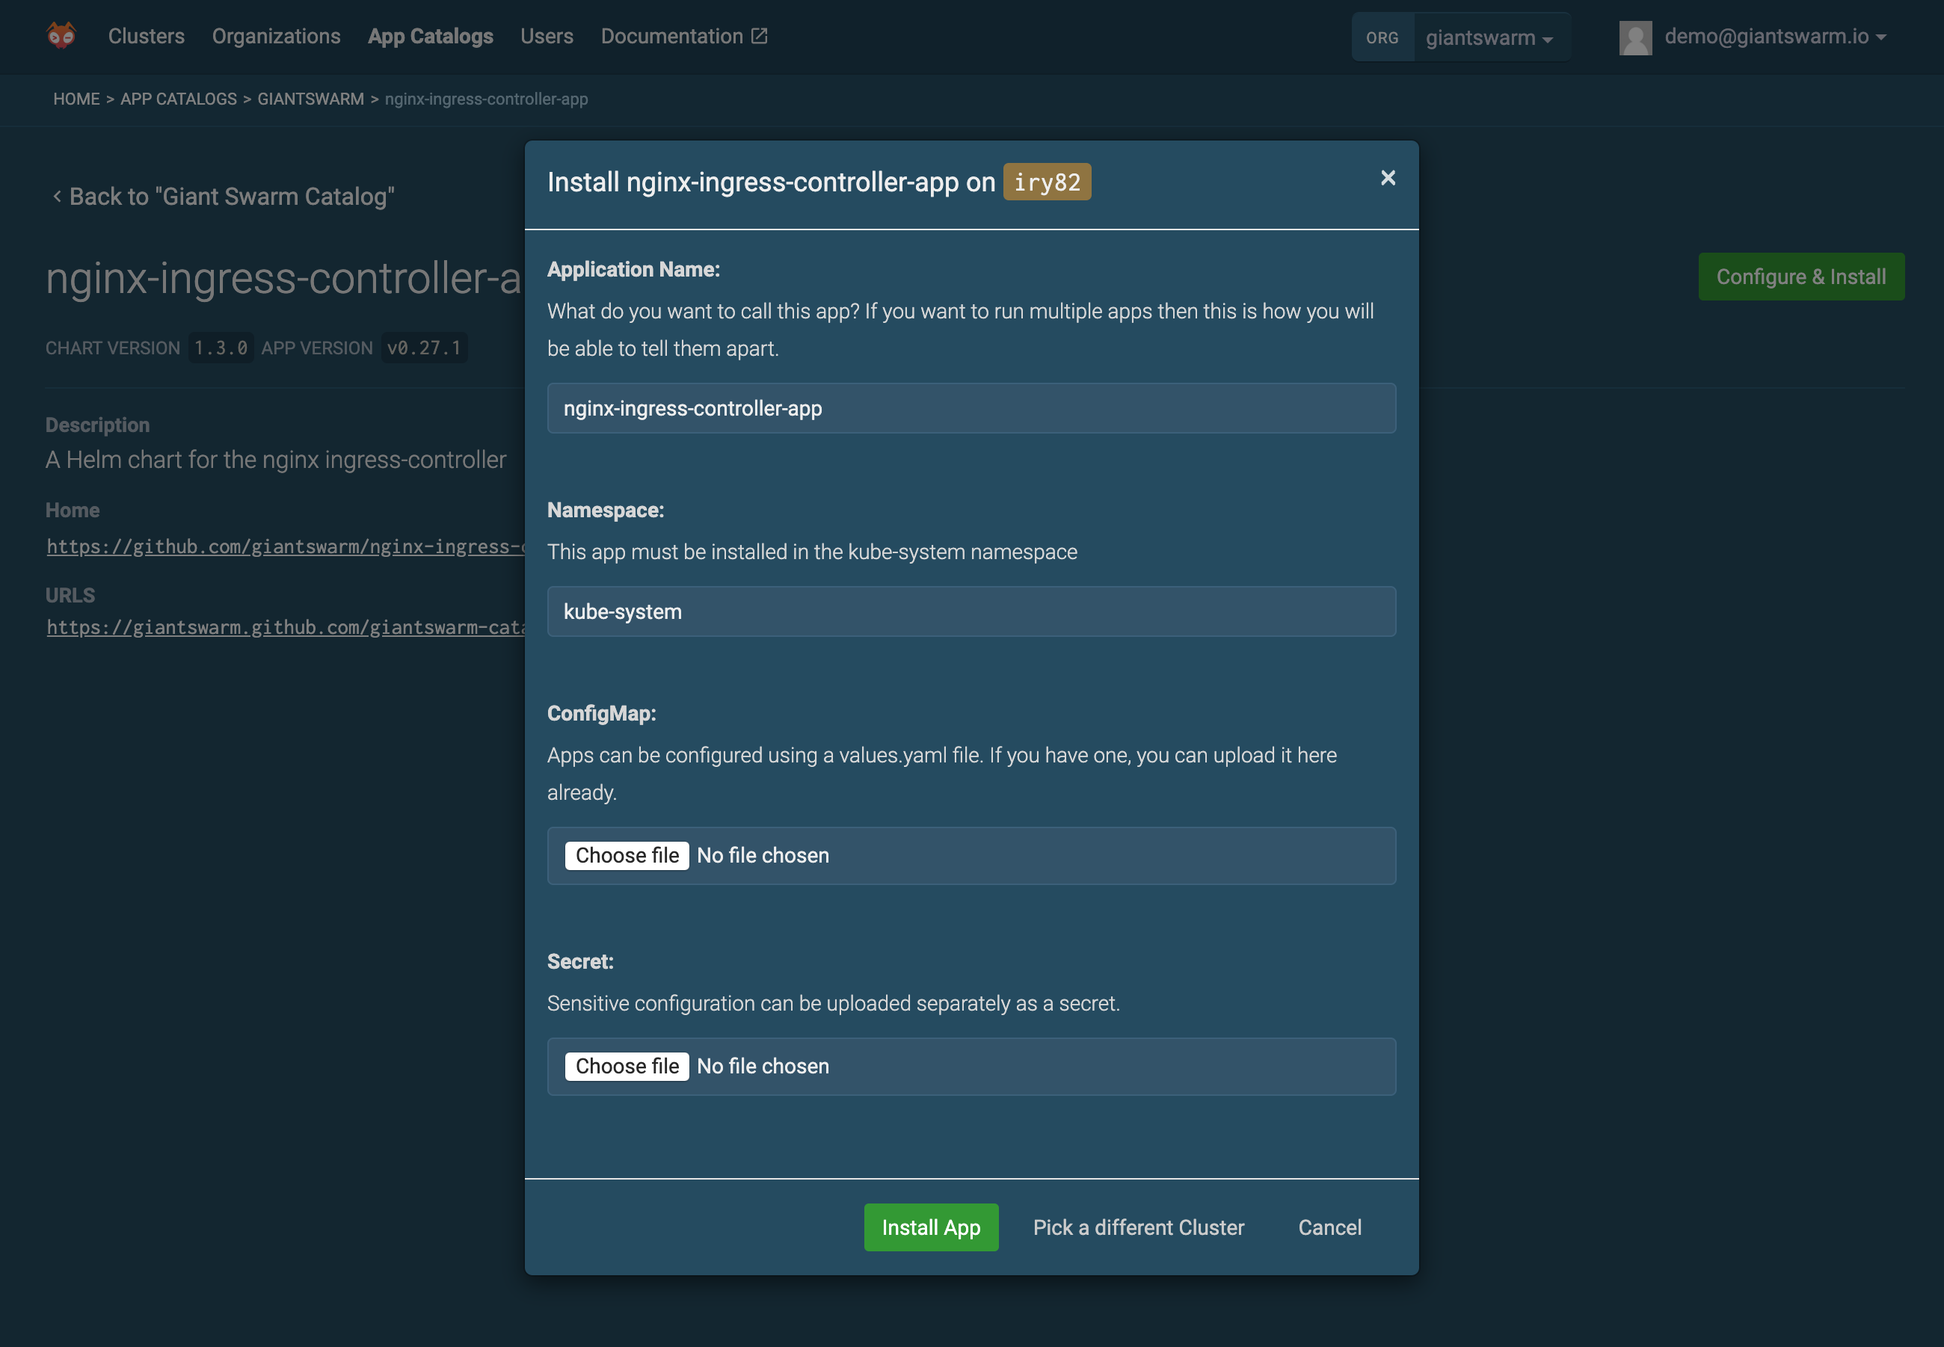
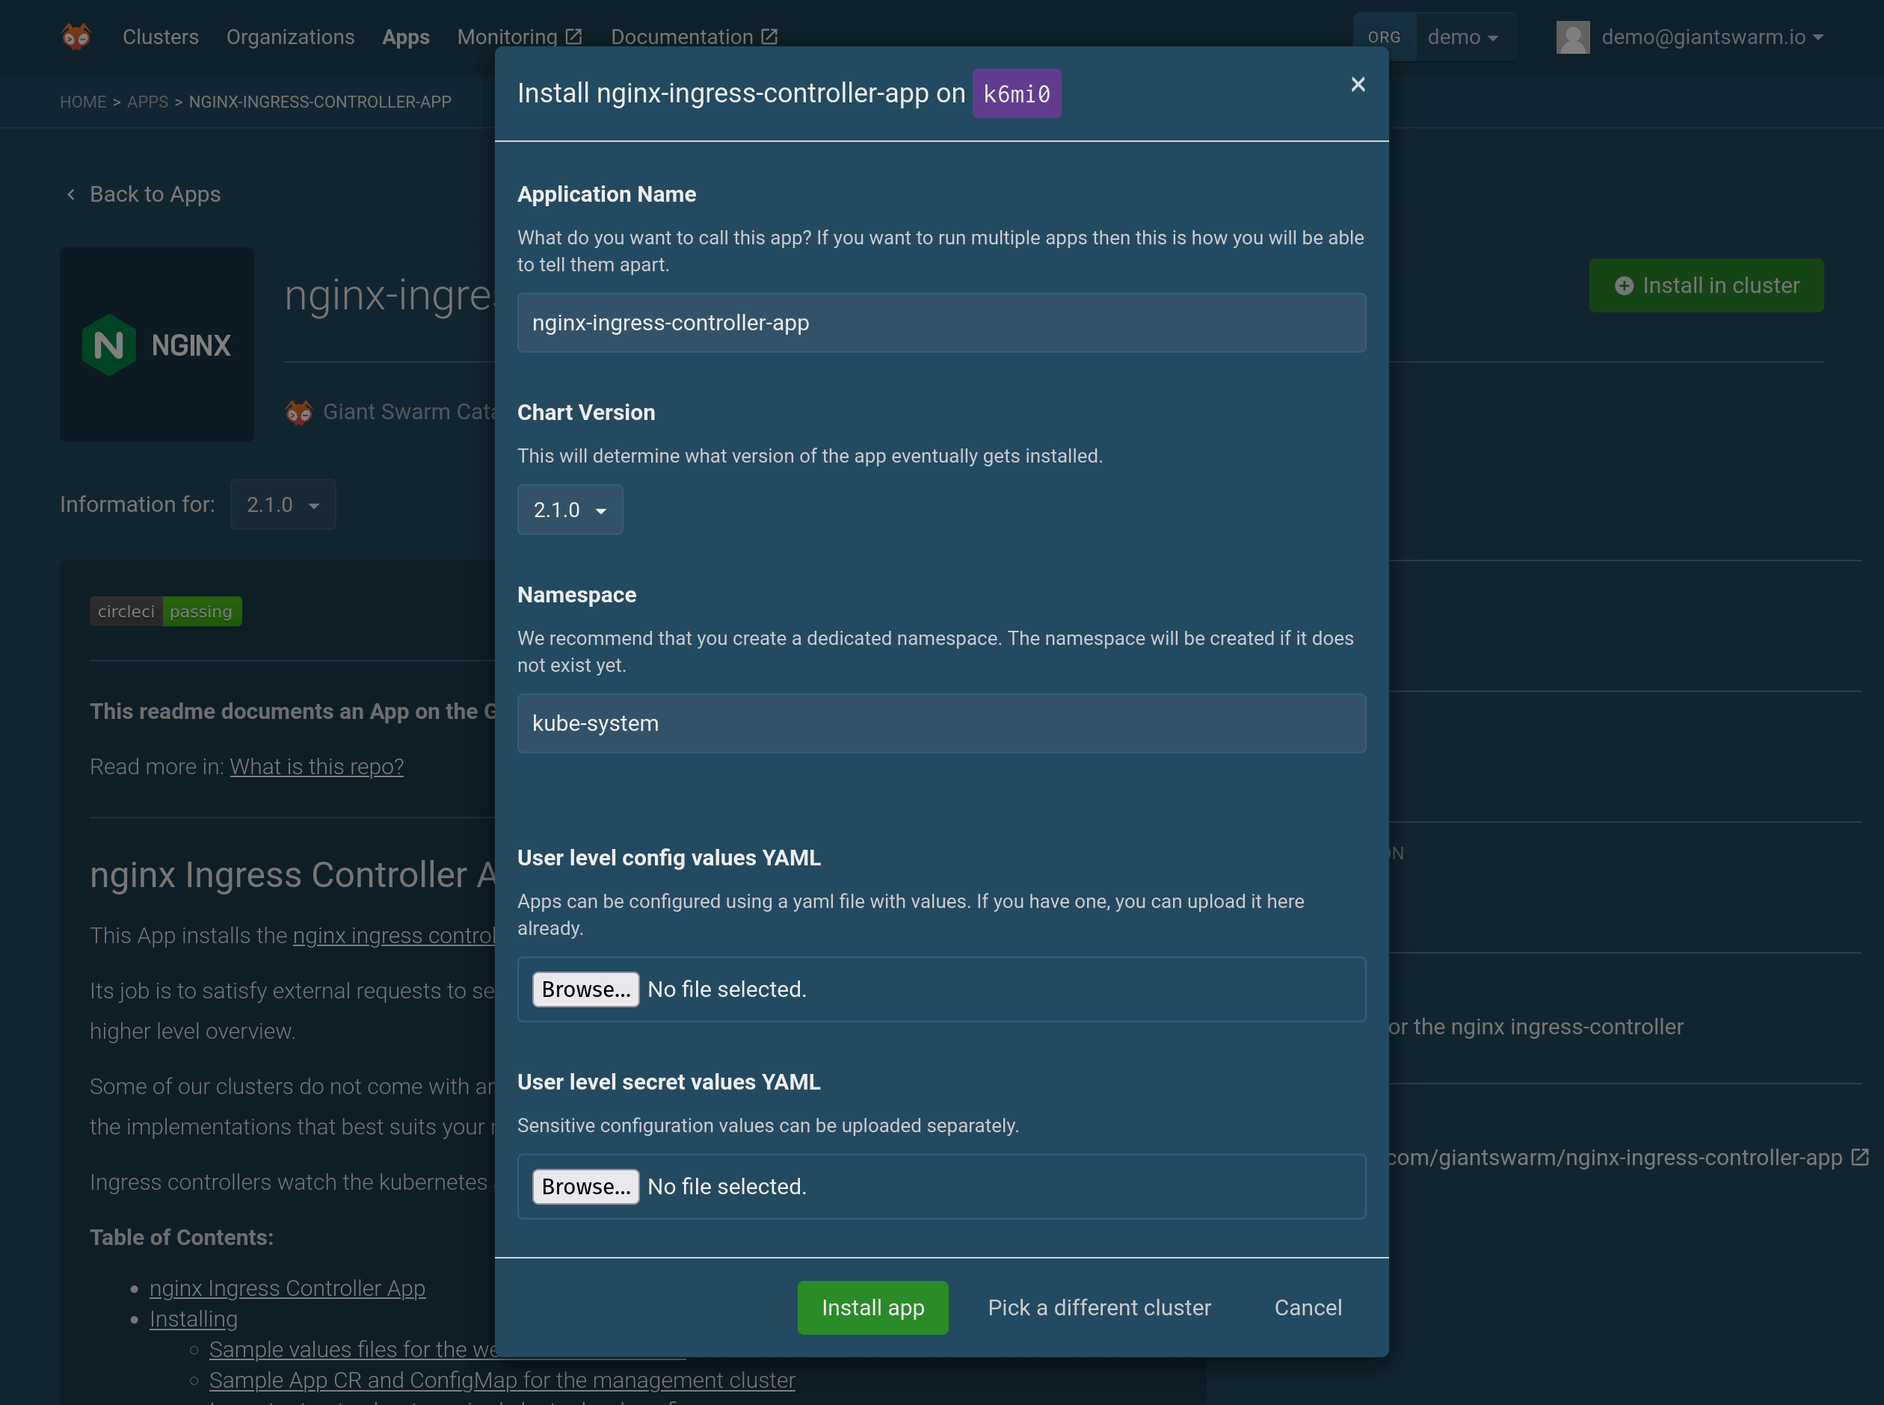
update ingress related docs

diff --git a/src/content/advanced/ingress/configuration/index.md b/src/content/advanced/ingress/configuration/index.md
@@ -33,10 +33,10 @@ owner:
 
 The [NGINX-based Ingress Controller](https://github.com/kubernetes/ingress-nginx) has additional configuration options and features that can be customized. The functionality is split into two categories:
 
-- [Per-Service options](#yaml) in each Ingress' YAML definition either directly or via [Annotations](https://kubernetes.io/docs/concepts/overview/working-with-objects/annotations/).
-- [Global options](#configmap) that influence all Ingresses of a cluster via a ConfigMap.
+- [Per-Service options](#yaml) in each Ingress' YAML definition either directly or via [Annotations](https://kubernetes.io/docs/concepts/overview/working-with-objects/annotations/) ([Complete list of supported Annotations](https://kubernetes.github.io/ingress-nginx/user-guide/nginx-configuration/annotations/)).
+- [Global options](#configmap) that influence all Ingresses of a cluster via a ConfigMap ([Complete list of ConfigMap options](https://kubernetes.github.io/ingress-nginx/user-guide/nginx-configuration/configmap/)).
 
-**Note**: Some Giant Swarm clusters do not come with an ingress controller pre-installed. See our [guide on how to install an ingress from the Giant Swarm Catalog]({{< relref "/getting-started/ingress-controller" >}}).
+**Note**: Giant Swarm clusters do not come with an ingress controller pre-installed. See our [guide on how to install an ingress from the Giant Swarm Catalog]({{< relref "/getting-started/ingress-controller" >}}).
 
 ## Per-Service options {#yaml}
 
@@ -45,26 +45,33 @@ The [NGINX-based Ingress Controller](https://github.com/kubernetes/ingress-nginx
 You can aggregate several Ingress rules into a single Ingress definition like following:
 
 ```yaml
-apiVersion: networking.k8s.io/v1beta1
+apiVersion: networking.k8s.io/v1
 kind: Ingress
 metadata:
   name: <ingress-name>
 spec:
+  ingressClassName: nginx
   rules:
   - host: <yourchoice1>.<cluster-id>.k8s.gigantic.io
     http:
       paths:
       - path: /
+        pathType: Prefix
         backend:
-          serviceName: <service1-name>
-          servicePort: <service1-port>
+          service:
+            name: <service1-name>
+            port:
+              number: <service1-port>
   - host: <yourchoice2>.<cluster-id>.k8s.gigantic.io
     http:
       paths:
       - path: /
+        pathType: Prefix
         backend:
-          serviceName: <service2-name>
-          servicePort: <service2-port>
+          service:
+            name: <service2-name>
+            port:
+              number: <service2-port>
 ```
 
 __Note:__ If you are using TLS you also need each of the hosts in the `tls` section (see below) of the yaml.
@@ -74,23 +81,30 @@ __Note:__ If you are using TLS you also need each of the hosts in the `tls` sect
 You can route an Ingress to different Services based on the path:
 
 ```yaml
-apiVersion: networking.k8s.io/v1beta1
+apiVersion: networking.k8s.io/v1
 kind: Ingress
 metadata:
   name: <ingress-name>
 spec:
+  ingressClassName: nginx
   rules:
   - host: <yourchoice>.<cluster-id>.k8s.gigantic.io
     http:
       paths:
       - path: /foo
+        pathType: Prefix
         backend:
-          serviceName: <service1-name>
-          servicePort: <service1-port>
+          service:
+            name: <service1-name>
+            port:
+              number: <service1-port>
       - path: /bar
+        pathType: Prefix
         backend:
-          serviceName: <service2-name>
-          servicePort: <service2-port>
+          service:
+            name: <service2-name>
+            port:
+              number: <service2-port>
 ```
 
 __Note:__ Your applications need to be capable of running on a non-root path either by default or by setting the base path in their configuration.
@@ -106,13 +120,14 @@ __Warning:__ This feature was disabled by default in Nginx ingress controller ma
 For SSL passthrough you need to set an annotation and enable TLS for the host:
 
 ```yaml
-apiVersion: networking.k8s.io/v1beta1
+apiVersion: networking.k8s.io/v1
 kind: Ingress
 metadata:
   name: <ingress-name>
   annotations:
     nginx.ingress.kubernetes.io/ssl-passthrough: "true"
 spec:
+  ingressClassName: nginx
    tls:
    - hosts:
      - <yourchoice>.<cluster-id>.k8s.gigantic.io
@@ -121,9 +136,12 @@ spec:
     http:
       paths:
       - path: /
+        pathType: Prefix
         backend:
-          serviceName: <service-name>
-          servicePort: <service-port>
+          service:
+            name: <service-name>
+            port:
+              number: <service-port>
 ```
 
 __Note:__ SSL passthrough cannot work with path based routing based on the nature of SSL.
@@ -148,11 +166,12 @@ __Note:__ the data keys must be named `tls.crt` and `tls.key`!
 Referencing this secret in an Ingress will tell the Ingress Controller to secure the channel from the client to the loadbalancer using TLS:
 
 ```yaml
-apiVersion: networking.k8s.io/v1beta1
+apiVersion: networking.k8s.io/v1
 kind: Ingress
 metadata:
   name: <ingress-name>
 spec:
+  ingressClassName: nginx
    tls:
    - hosts:
      - <yourchoice>.<cluster-id>.k8s.gigantic.io
@@ -162,12 +181,13 @@ spec:
     http:
       paths:
       - path: /
+        pathType: Prefix
         backend:
-          serviceName: <service-name>
-          servicePort: <service-port>
+          service:
+            name: <service-name>
+            port:
+              number: <service-port>
 ```
-
-__Warning:__ When enabling `TLS` with the NGINX Ingress Controller, some more configuration settings become important. Notably [`HSTS`](https://cheatsheetseries.owasp.org/cheatsheets/HTTP_Strict_Transport_Security_Cheat_Sheet.html) will be enabled [by default](https://kubernetes.github.io/ingress-nginx/user-guide/nginx-configuration/configmap/#hsts) with a duration of six month for your specified domain. Once a browser retrieved these `HSTS` instructions it will refuse to read any unencrypted resource from that domain and un-setting `HSTS` on your server will not have any affect on that browser for half a year. So you might want to disable this at first to avoid [unwanted surprises](https://github.com/kubernetes/ingress-nginx/issues/549#issuecomment-291894246). Please contact our support team to find out details on how to disable HSTS in your cluster.
 
 __Tip:__ If you want to use [Let’s Encrypt](https://letsencrypt.org/) certificates with your domains you can automate their creation and renewal with the help of [cert-manager](https://cert-manager.io/docs/). After configuring cert-manager there is only an annotation with your Ingresses needed and your web page will be secured by a valid `TLS` certificate.
 
@@ -210,7 +230,7 @@ data:
 Last, we create the Ingress with the according annotations:
 
 ```yaml
-apiVersion: networking.k8s.io/v1beta1
+apiVersion: networking.k8s.io/v1
 kind: Ingress
 metadata:
   name: <ingress-name>
@@ -222,14 +242,18 @@ metadata:
     # message to display with an appropiate context why the authentication is required
     nginx.ingress.kubernetes.io/auth-realm: "Authentication Required - foo"
 spec:
+  ingressClassName: nginx
   rules:
   - host: <yourchoice>.<cluster-id>.k8s.gigantic.io
     http:
       paths:
       - path: /
+        pathType: Prefix
         backend:
-          serviceName: <service-name>
-          servicePort: <service-port>
+          service:
+            name: <service-name>
+            port:
+              number: <service-port>
 ```
 
 ### External Authentication
@@ -249,21 +273,25 @@ In some scenarios the exposed URL in the backend service differs from the specif
 This can for example be used together with path based routing, when the application expects to be on `/`:
 
 ```yaml
-apiVersion: networking.k8s.io/v1beta1
+apiVersion: networking.k8s.io/v1
 kind: Ingress
 metadata:
   name: <ingress-name>
   annotations:
     nginx.ingress.kubernetes.io/rewrite-target: /
 spec:
+  ingressClassName: nginx
   rules:
   - host: <yourchoice>.<cluster-id>.k8s.gigantic.io
     http:
       paths:
       - path: /foo
+        pathType: Prefix
         backend:
-          serviceName: <service-name>
-          servicePort: <service1port>
+          service:
+            name: <service-name>
+            port:
+              number: <service-port>
 ```
 
 If the application contains relative links it is possible to add an additional annotation `ingress.kubernetes.io/add-base-url` that will prepend a [`base` tag](https://developer.mozilla.org/en-US/docs/Web/HTML/Element/base) in the header of the returned HTML from the backend.
@@ -288,7 +316,7 @@ By default the controller redirects (301) to `HTTPS` if TLS is enabled for that 
 
 ### Whitelist source range
 
-You can specify the allowed client IP source ranges through the `nginx.ingress.kubernetes.io/whitelist-source-range` annotation. The value is a comma separated list of [CIDRs](https://en.wikipedia.org/wiki/Classless_Inter-Domain_Routing), e.g.  `10.0.0.0/24,172.10.0.1`.
+You can specify the allowed client IP source ranges through the `nginx.ingress.kubernetes.io/whitelist-source-range` annotation. The value is a comma separated list of [CIDRs](https://en.wikipedia.org/wiki/Classless_Inter-Domain_Routing), e.g. `10.0.0.0/24,172.10.0.1`.
 
 __Note:__ Adding an annotation to an Ingress rule overrides any global restrictions set in the NGINX Ingress Controller.
 
@@ -325,7 +353,7 @@ The NGINX Ingress Controller creates an NGINX configuration file. You can direct
 Here is an example adding an `Expires` header to every response:
 
 ```yaml
-apiVersion: networking.k8s.io/v1beta1
+apiVersion: networking.k8s.io/v1
 kind: Ingress
 metadata:
   name: myingress
@@ -334,14 +362,18 @@ metadata:
     nginx.ingress.kubernetes.io/configuration-snippet: |
       expires 24h;
 spec:
+  ingressClassName: nginx
   rules:
   - host: host.example.com
     http:
       paths:
       - backend:
-          serviceName: http-svc
-          servicePort: 80
+          service:
+            name: http-svc
+            port:
+              number: 80
         path: /
+        pathType: Prefix
 ```
 
 Make sure to use the exact annotation scheme `nginx.ingress.kubernetes.io/configuration-snippet` in the `metadata` section of the manifest.
@@ -356,6 +388,8 @@ Your Giant Swarm installation comes with a default configuration for the Ingress
 
 You can override these defaults by setting your per cluster configuration in the form of a ConfigMap named `nginx-ingress-controller-user-values` in the management cluster.
 
+Page [App configuration reference]({{< relref "/app-platform/app-configuration/index.md" >}}) contains more information how to set user defined configuration for the nginx-ingress-controller-app.
+
 ### Where is the user values ConfigMap
 
 Given the cluster you are trying to configure has id: `123ab`
@@ -363,7 +397,7 @@ Given the cluster you are trying to configure has id: `123ab`
 You will find the `nginx-ingress-controller-user-values` ConfigMap on the management cluster in the `123ab` namespace:
 
 ```nohighlight
-$ kubectl -n 123ab get cm nginx-ingress-controller-user-values --context=control-plane
+$ kubectl -n 123ab get cm nginx-ingress-controller-user-values
 NAME                                   DATA      AGE
 nginx-ingress-controller-user-values   0         11m
 ```
@@ -408,7 +442,7 @@ spec:
       namespace: abc12
 ```
 
-Any defaults that we override are visible in the following `values.yaml` file, under the `configmap` key. [Check this values.yaml file in v1.16.1](https://github.com/giantswarm/nginx-ingress-controller-app/blob/v1.16.1/helm/nginx-ingress-controller-app/values.yaml) as an example.
+Any defaults that we override are visible in the following `values.yaml` file, under the `configmap` key. [Check this values.yaml file in v2.1.0](https://github.com/giantswarm/nginx-ingress-controller-app/blob/v2.1.0/helm/nginx-ingress-controller-app/values.yaml) as an example.
 
 Do not copy all the defaults if you do not need to change them, that way we can adjust them in case they need to change.
 

diff --git a/src/content/getting-started/exposing-workloads/index.md b/src/content/getting-started/exposing-workloads/index.md
@@ -16,7 +16,7 @@ aliases:
   - /guides/accessing-services-from-the-outside/
 owner:
   - https://github.com/orgs/giantswarm/teams/team-ludacris
-last_review_date: 2021-01-01
+last_review_date: 2021-09-01
 ---
 
 # Accessing pods and services from the outside
@@ -72,25 +72,31 @@ You can expose services publicly by setting up a simple ingress. You can do this
 Let's look at the following YAML, which you can use as a template for your ingress manifest:
 
 ```yaml
-apiVersion: networking.k8s.io/v1beta1
+apiVersion: networking.k8s.io/v1
 kind: Ingress
 metadata:
   name: INGRESS_NAME
   namespace: NAMESPACE
 spec:
+  ingressClassName: nginx
   rules:
   - host: PREFIX.CLUSTER_ID.k8s.gigantic.io
     http:
       paths:
       - path: /
+        pathType: Prefix
         backend:
           serviceName: SERVICE_NAME
           servicePort: SERVICE_PORT
+          service:
+            name: SERVICE_NAME
+            port:
+              number: SERVICE_PORT
 ```
 
 All parts in uppercase letters are placeholders, to be replaced according to your individual requirements. In detail:
 
-- `INGRESS_NAME`: This name identifies the ingress within your namespace. As with all other kubernetes, it's up to you how you name it.
+- `INGRESS_NAME`: This name identifies the ingress within your namespace. As with all other Kubernetes resources, it's up to you how you name it.
 - `NAMESPACE`: The namespace of the service you'd like to expose. The ingress must reside in the same namespace, so it's useful to make it part of the metadata in the manifest.
 - `PREFIX`: A subdomain name of your choice. This must be unique among all ingresses of this cluster. If you like, you can make this the same as `INGRESS_NAME`.
 - `CLUSTER_ID`: The ID of the Kubernetes cluster the service you'd like to expose is running on. This should be a string consisting of five letters and numbers.
@@ -116,8 +122,6 @@ Once the ingress is up, you will be able to access your service publicly at a UR
 ```nohighlight
 http://PREFIX.CLUSTER_ID.k8s.gigantic.io
 ```
-
-Currently, this is limited to exposing by default on port `80`. Support for TLS will be added soon.
 
 For additional features and options, please see our documentation around [advanced ingress configuration]({{< relref "/advanced/ingress/configuration" >}}).
 

diff --git a/src/content/getting-started/ingress-controller/index.md b/src/content/getting-started/ingress-controller/index.md
@@ -14,7 +14,7 @@ aliases:
   - /guides/installing-optional-ingress-controller/
 owner:
   - https://github.com/orgs/giantswarm/teams/team-halo
-last_review_date: 2021-01-01
+last_review_date: 2021-09-01
 ---
 
 # Installing an ingress controller
@@ -32,18 +32,26 @@ want to run on your cluster.
 
 Using our Web UI you can install an NGINX ingress controller using our App Catalog.
 
-1. Click "Install App" from the "Apps" tab when viewing your cluster
+1. Click "Install app" from the "Apps" tab when viewing your cluster
   ![Cluster detail screen showing install app button](cluster-detail.png)
 
-2. Click "Browse Apps" from the "Giant Swarm Catalog"
-  ![List of app catalogs including the Giant Swarm Catalog](catalog-list.png)
+2. Search for "nginx-ingress-controller-app" in the list of apps
+  ![List of app catalogs including the Giant Swarm Catalog](app-list.png)
 
-3. Click "nginx-ingress-controller-app" from the list of apps.
-  ![List of apps in the Giant Swarm Catalog](app-list.png)
+3. Select "nginx-ingress-controller-app" from the "Giant Swarm Catalog"
+  ![List of apps in the Giant Swarm Catalog](app-search-result.png)
 
-4. Click "Configure & Install"
+4. Click "Install in cluster"
 
-5. Click "Install App" (In case you want any special configuration, this is where you can also provide a 'values.yaml' with your customized settings)
+5. Click "Install app" (In case you want any special configuration, this is where you can also provide a 'values.yaml' with your customized settings)
   ![App installation modal](install-app-modal.png)
 
 After a few moments, the NGINX ingress controller should be running on your cluster.
+
+More information about the nginx-ingress-controller-app can be found in the [nginx-ingress-controller-app](https://github.com/giantswarm/nginx-ingress-controller-app) repository.
+
+## Further reading
+
+- [Accessing pods and services from the outside]({{< relref "/getting-started/exposing-workloads/index.md" >}})
+- [Running multiple NGINX ingress controllers]({{< relref "/advanced/ingress/multi-nginx-ic/index.md" >}})
+- [Advanced ingress configuration]({{< relref "/advanced/ingress/configuration/index.md" >}})

diff --git a/src/content/advanced/ingress/service-type-loadbalancer/index.md b/src/content/advanced/ingress/service-type-loadbalancer/index.md
@@ -15,7 +15,7 @@ user_questions:
   - How can I expose Services to the internet?
   - How do I configure an Ingress Controller behind an ELB for traffic between services within the VPC?
   - How do I configure an Ingress Controller behind an ELB that terminates SSL?
-last_review_date: 2021-01-01
+last_review_date: 2021-09-01
 ---
 
 # Services of type LoadBalancer
@@ -24,7 +24,7 @@ Next to using the default NGINX Ingress Controller, on cloud providers (currentl
 
 You can use this to [expose single Services](#service-of-type-lb) to the internet. It is also possible, to [install additional NGINX Ingress Controllers]({{< relref "/content/advanced/ingress/multi-nginx-ic/index.md" >}}) to expose a subset of your Services with a different Ingress Controller configuration.
 
-__Note__ that this functionality cannot be used on premises.
+__Note__ that this functionality cannot be used on premises (KVM).
 
 ## Exposing a single Service {#service-of-type-lb}
 
@@ -219,4 +219,4 @@ metadata:
 - [Running Multiple NGINX Ingress Controllers]({{< relref "/content/advanced/ingress/multi-nginx-ic/index.md" >}})
 - [Services of type LoadBalancer](https://kubernetes.io/docs/concepts/services-networking/service/#type-loadbalancer)
 - [Running Multiple Ingress Controllers](https://github.com/kubernetes/ingress-nginx#running-multiple-ingress-controllers)
-- [Deploying the NGINX Ingress Controller](https://github.com/kubernetes/ingress-nginx/tree/master/deploy)
+- [Deploying the NGINX Ingress Controller]({{< relref "/getting-started/ingress-controller/index.md" >}})
